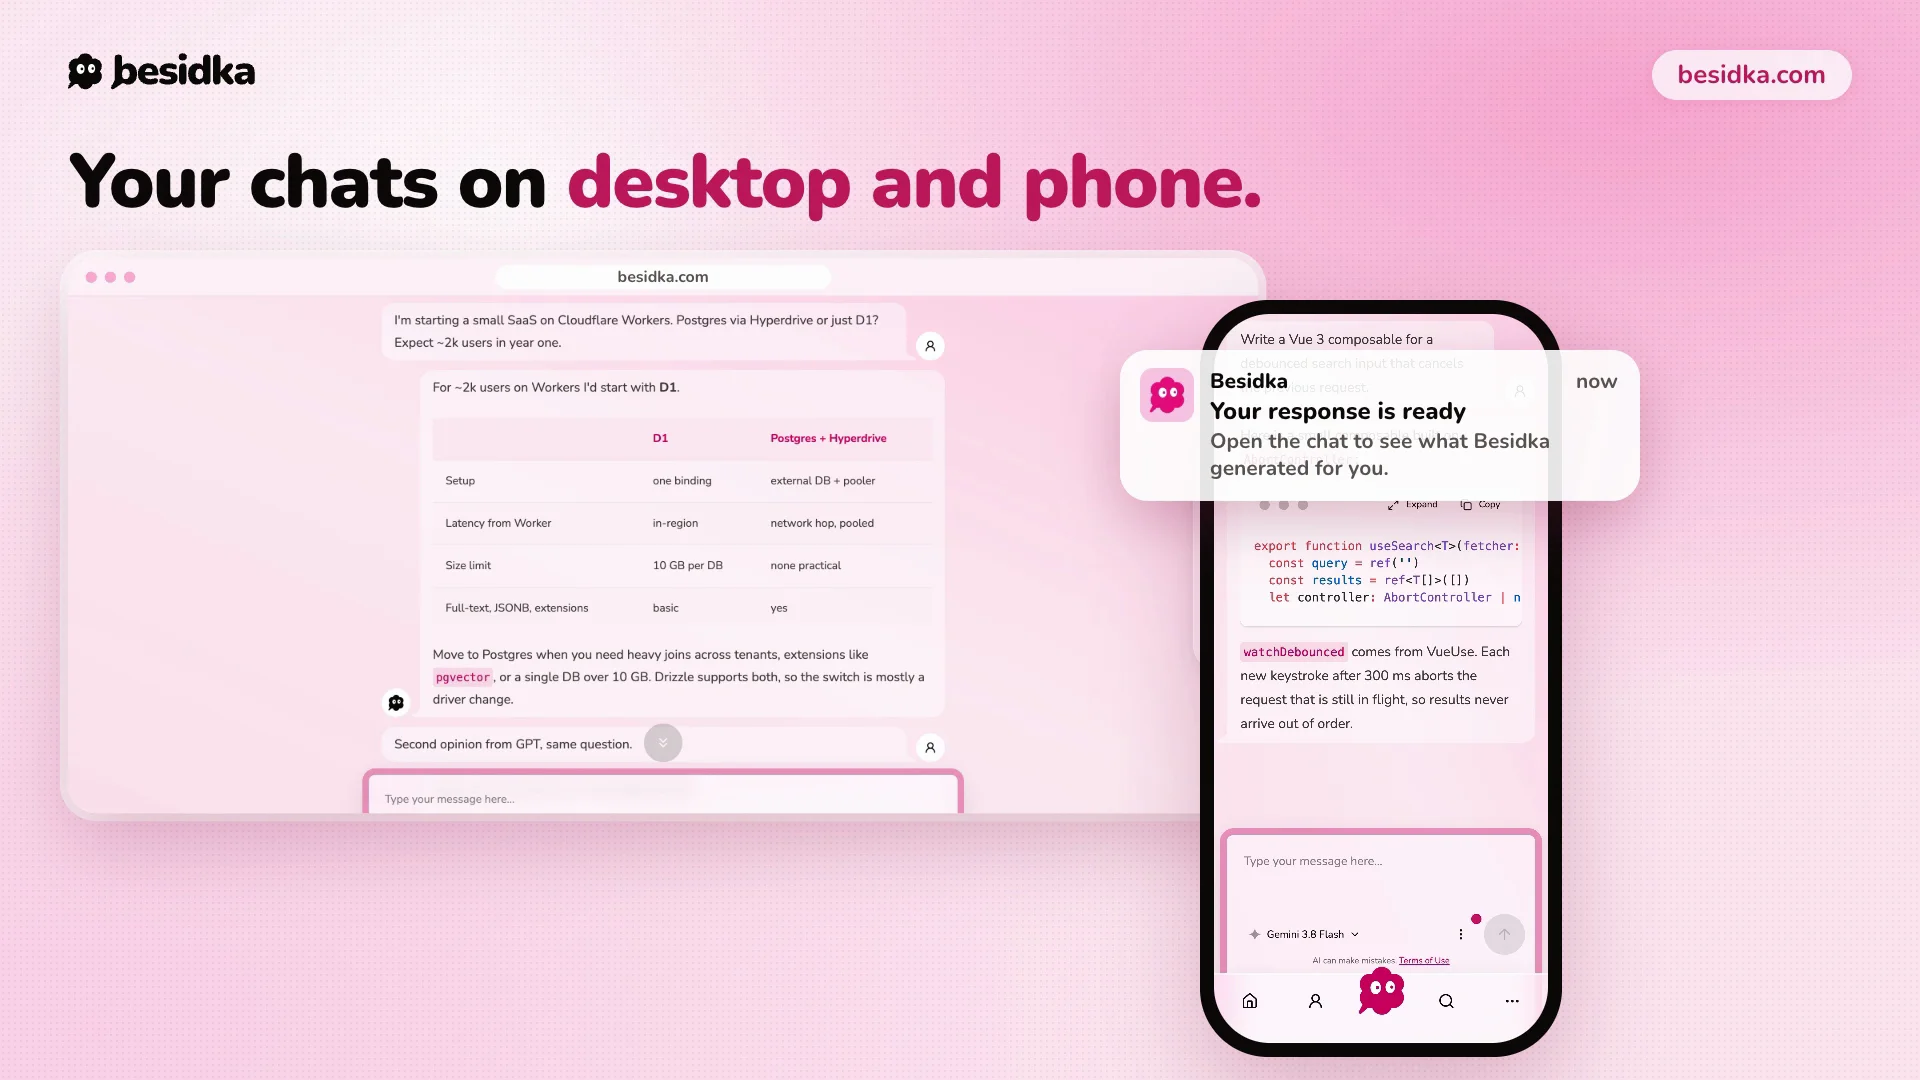
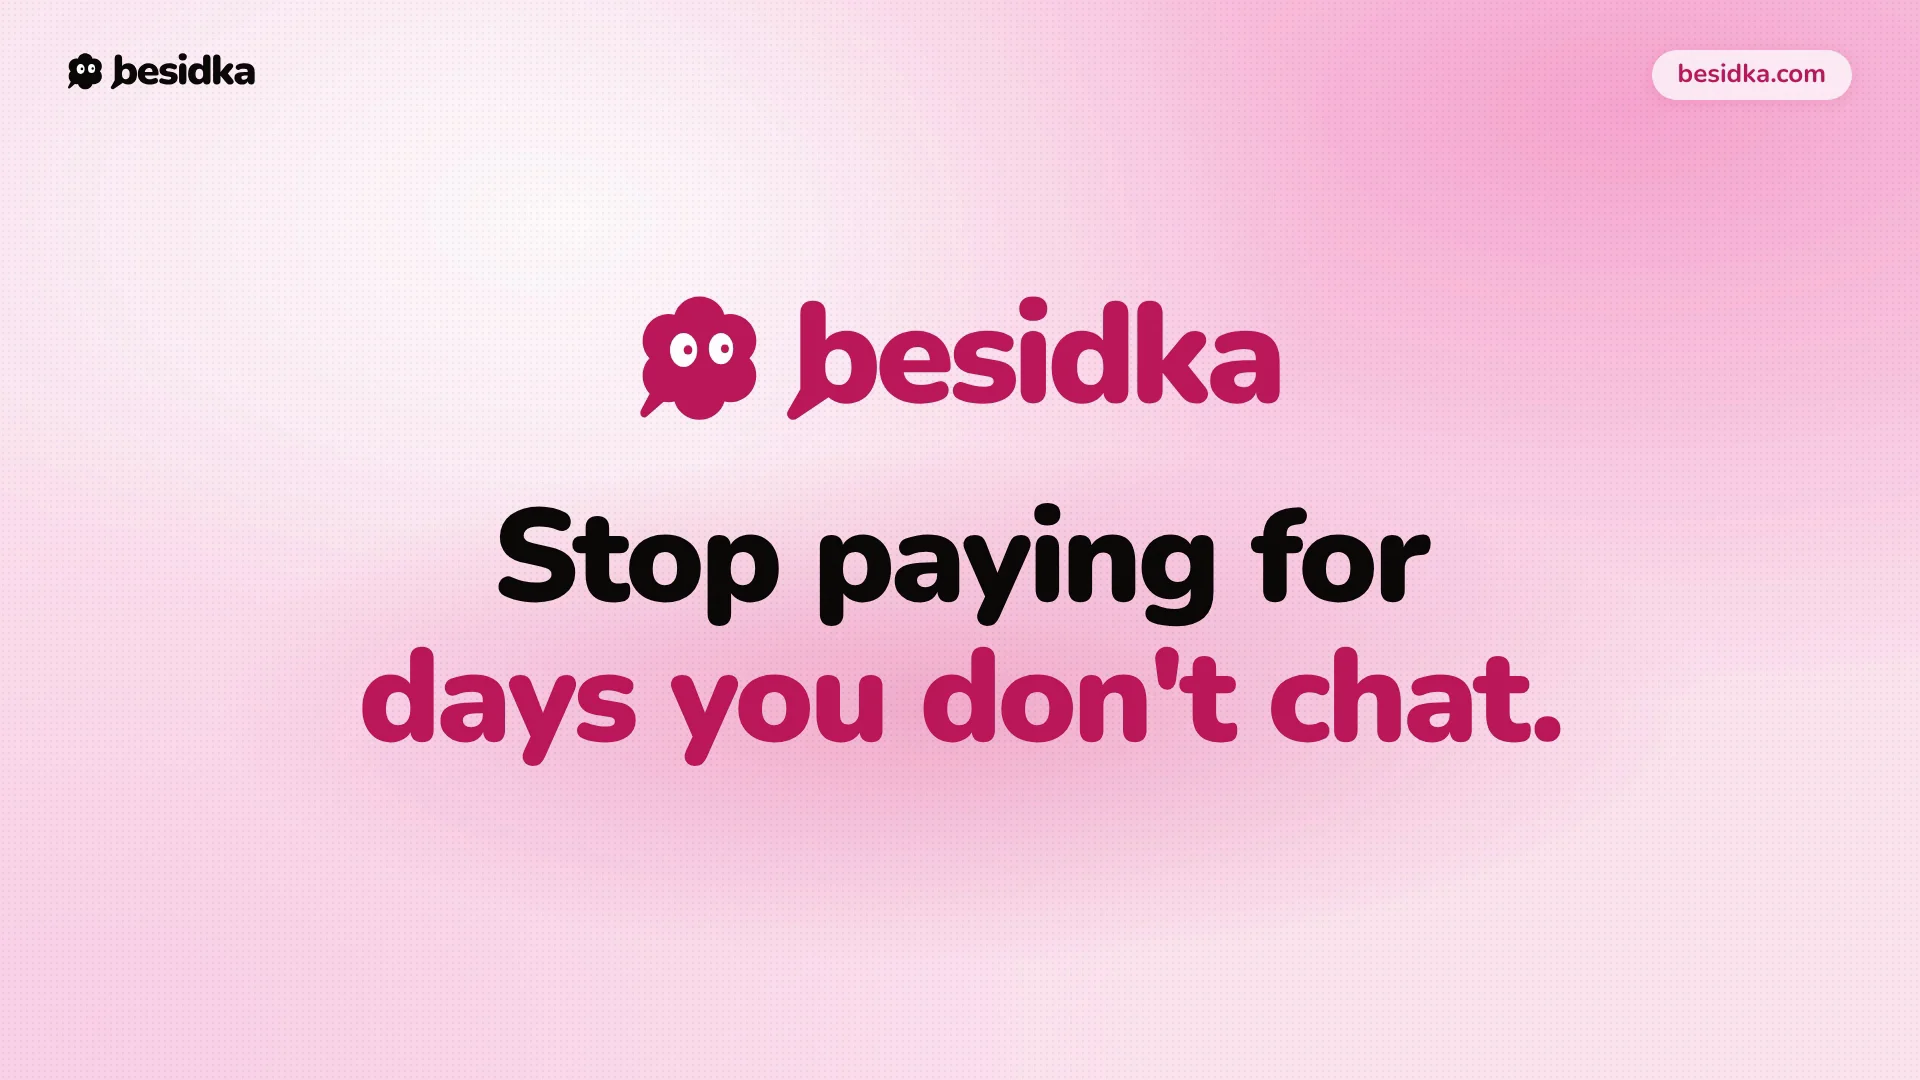
fix(landing): open the promo video on its title frame
The promo renditions were replaced so frame 0 is the composed hook title
instead of the logo-only canvas; from frame 1 the video is unchanged
(1620 frames, captions and markers as before). The poster is now that
same title frame, so poster and first frame agree.

The video route caches for a day, so the three rendition URLs and the
poster in content/index.md move to ?v=2. demo.en.vtt did not change and
keeps its URL. docs/landing-studio.md describes the versioning step.

Changed region(s): [[0.0312, 0.1222, 0.875, 1.0], [0.875, 0.0611, 0.9375, 0.0917], [0.0312, 0.2444, 0.0625, 0.275]]

diff --git a/docs/landing-studio.md b/docs/landing-studio.md
@@ -464,6 +464,23 @@ binaries); they live in the `CMS_BUCKET` R2 bucket.
   and exits non-zero. `--force` and `--yes` are rejected for `download`, which
   pulls the objects back into `.files/` and skips files already there.
 
+#### Replacing the promo (cache-safe URLs)
+
+`/videos/*` answers with `Cache-Control: public, max-age=86400`, so a
+re-uploaded `demo*.mp4` under the same URL can stay stale in browsers for a
+day. Version the URLs in `content/index.md` instead of renaming objects: bump
+`?v=<n>` on `video.src`, every `video.qualities` entry and `video.poster` in
+the change that replaces the files (the poster is a static file served with
+`max-age=0, must-revalidate`, so its query only keeps the pair in step). The
+route reads the name from the router param, so the query never reaches the
+allow-list or the R2 key. Then upload with `--force`. The captions file did
+not change, so `demo.en.vtt` keeps its URL.
+
+On 2026-10-26 the three renditions were replaced (`?v=2`): frame 0 is now the
+composed hook title, the same image as the new poster, and from frame 1 on the
+video is unchanged (same 1620 frames, captions and markers). The splice and
+its checks are described under "First frame" in `docs/key-guides.md`.
+
 #### Serving: one R2 read per request
 
 `server/routes/videos/[name].ts` serves a fixed allow-list (`demo.mp4`,

diff --git a/content/index.md b/content/index.md
@@ -304,17 +304,17 @@ steps:
     title: 3. Start chatting
     body: Open a new chat, pick your model, and go. You pay your provider or gateway directly. Besidka adds nothing on top.
 video:
-  src: /videos/demo.mp4
-  poster: /promo/poster.webp
+  src: /videos/demo.mp4?v=2
+  poster: /promo/poster.webp?v=2
   caption: A 54-second tour of Besidka
   qualities:
-    - src: /videos/demo-1080.mp4
+    - src: /videos/demo-1080.mp4?v=2
       size: 1080
       label: 1080p
-    - src: /videos/demo.mp4
+    - src: /videos/demo.mp4?v=2
       size: 720
       label: 720p
-    - src: /videos/demo-360.mp4
+    - src: /videos/demo-360.mp4?v=2
       size: 360
       label: 360p
   captions:
